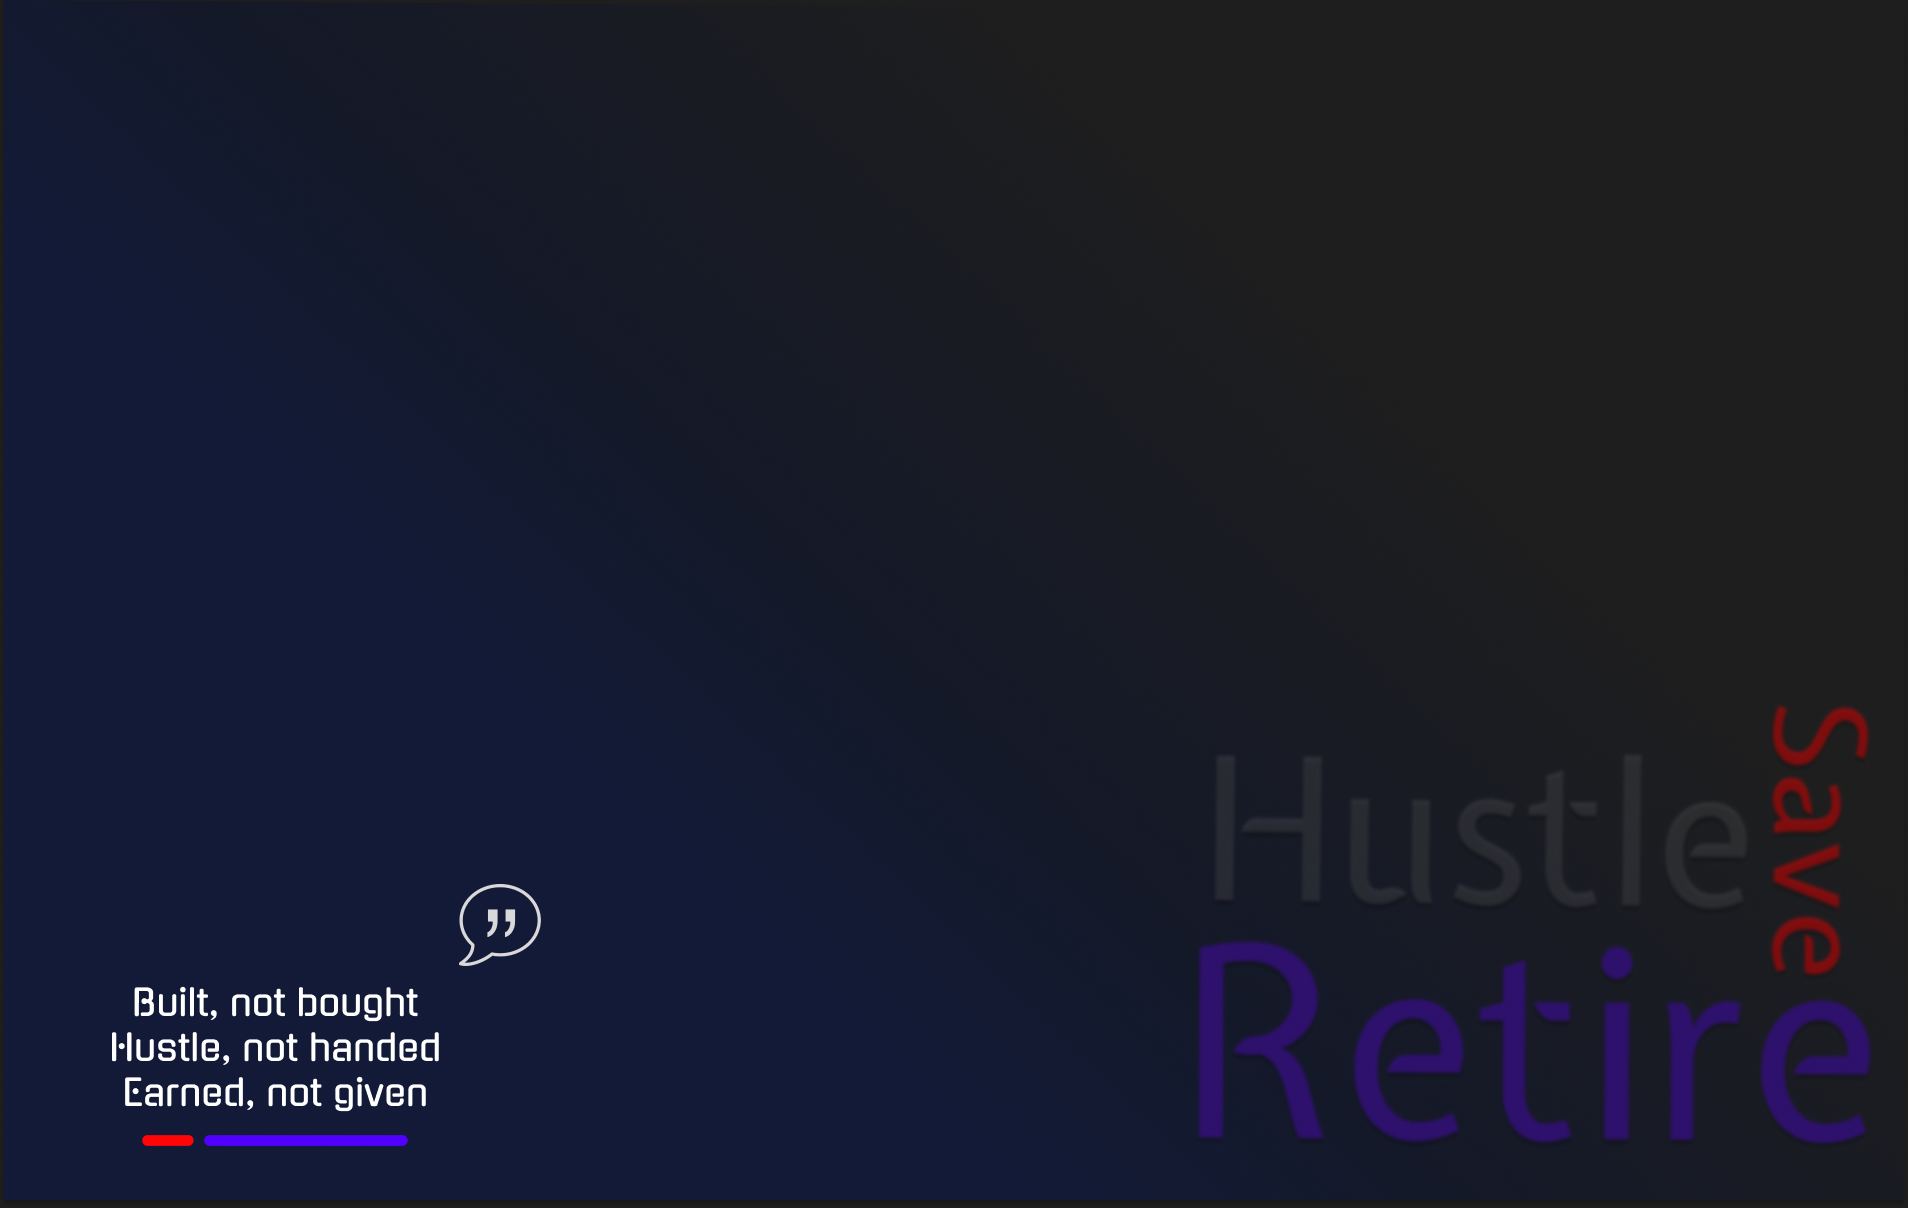
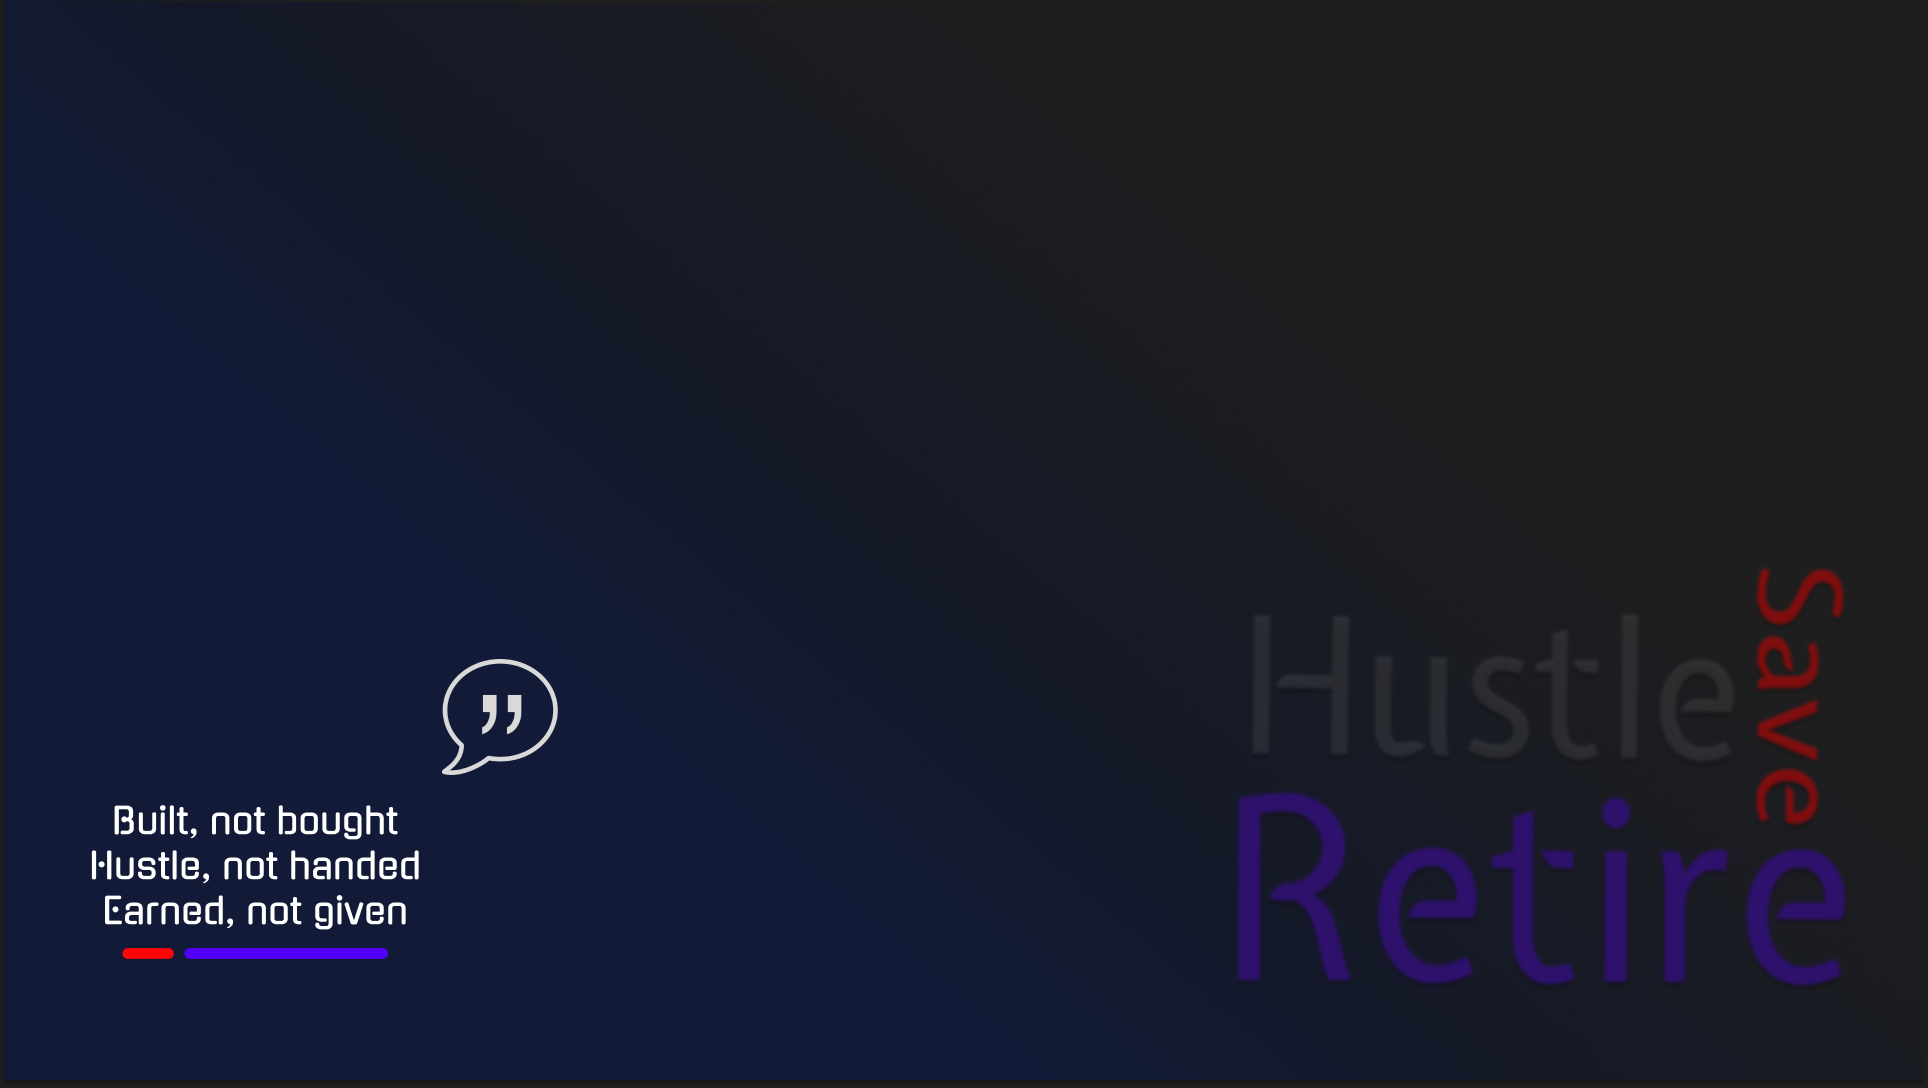
add background + edit profile

Changed region(s): [[0.6184, 0.5, 0.9895, 0.9688], [0.0309, 0.7188, 0.2474, 0.9688], [0.2165, 0.5938, 0.3092, 0.8125]]

diff --git a/src/components/HeaderAfterSignIn.js b/src/components/HeaderAfterSignIn.js
@@ -96,7 +96,7 @@ export default function HeaderAfterSignIn() {
                                                             fill="#D9D9D9"
                                                         />
                                                     </svg>{" "}
-                                                    Calculator
+                                                    Suggestion
                                                 </p>
                                             )}
                                         </Menu.Item>
@@ -136,6 +136,11 @@ export default function HeaderAfterSignIn() {
                         <span className="text-white self-center text-xl xl:text-2xl font-bold whitespace-nowrap">
                             Full House
                         </span>
+                    </div>
+                    <div className="flex items-center lg:order-2">
+                        <p onClick={() => { navigate("/profile", { replace: false }) }} className="cursor-pointer text-white focus:ring-4 font-medium rounded-lg text-md lg:text-xl px-4 lg:px-5 py-2 lg:py-2.5 mr-2 hover:bg-gray-700 focus:outline-none focus:ring-gray-800">PROFILE</p>
+                        <p onClick={() => { navigate("/signin", { replace: false }) }} className="cursor-pointer text-white focus:ring-4 font-medium rounded-lg text-md lg:text-xl px-4 lg:px-5 py-2 lg:py-2.5 mr-2 hover:bg-gray-700 focus:outline-none focus:ring-gray-800">SUGGESTION</p>
+                        <p onClick={() => { dispatch(signOutAction()) }} className="cursor-pointer focus:ring-4 font-medium rounded-lg text-md lg:text-xl px-4 lg:px-5 py-2 lg:py-2.5 mr-2 hover:bg-gray-700 focus:outline-none focus:ring-gray-800" style={{ color: "#FA0F0F" }}>SIGN OUT</p>
                     </div>
                 </div>
             </nav>

diff --git a/src/pages/ProfilePage/ProfilePage.js b/src/pages/ProfilePage/ProfilePage.js
@@ -2,20 +2,20 @@ import React from "react";
 import avatar from "../../assets/images/avatar.jpg";
 import UpdatePopUp from "../../components/UpdatePopUp";
 import HeaderAfterSignIn from "../../components/HeaderAfterSignIn";
-
-
+import background from '../../assets/images/background.png'
 
 export default function ProfilePage() {
-
   return (
-    <div
-      className="overflow-hidden "
-      style={{
-        background:
-          "linear-gradient(238.87deg, #1E1E1E 11.19%, #141929 48.52%, #121A37 67.18%)",
-        fontFamily: "'Gugi', cursive",
-      }}
-    >
+
+    <div className="overflow-x-hidden overflow-y-hidden" style={{
+      backgroundImage: `url(${background})`,
+      backgroundPosition: 'center',
+      backgroundSize: 'cover',
+      backgroundRepeat: 'no-repeat',
+      backgroundosition: "right",
+      fontFamily: "'Gugi', cursive",
+      // background: "linear-gradient(238.87deg, #1E1E1E 11.19%, #141929 48.52%, #121A37 67.18%)",
+    }}>
       <HeaderAfterSignIn />
       <div className="mt-20 md:mt-0 md:w-screen md:h-screen text-white flex justify-center items-center">
         <div className="grid grid-rows-5 grid-flow-row lg:grid-flow-col gap-4">

diff --git a/src/pages/SignInPage/SignInPage.js b/src/pages/SignInPage/SignInPage.js
@@ -3,6 +3,7 @@ import { useDispatch, useSelector } from 'react-redux'
 import HeaderBeforeSignIn from '../../components/HeaderBeforeSignIn'
 import { useFormik } from 'formik'
 import { signInAction } from '../../redux/actions/UserAction'
+import background from '../../assets/images/background.png'
 
 export default function SignInPage() {
   const { navigate } = useSelector((state) => state.NavigationReducer);
@@ -20,13 +21,14 @@ export default function SignInPage() {
   })
 
   return (
-    <div
-      className="overflow-hidden "
-      style={{
-        background:
-          "linear-gradient(238.87deg, #1E1E1E 11.19%, #141929 48.52%, #121A37 67.18%)",
-      }}
-    >
+    <div className="overflow-x-hidden overflow-y-hidden" style={{
+      backgroundImage: `url(${background})`,
+      backgroundPosition: 'center',
+      backgroundSize: 'cover',
+      backgroundRepeat: 'no-repeat',
+      backgroundosition: "right"
+      // background: "linear-gradient(238.87deg, #1E1E1E 11.19%, #141929 48.52%, #121A37 67.18%)",
+    }}>
       <HeaderBeforeSignIn />
       <div className="w-screen h-screen text-white flex justify-center items-center">
         <div

diff --git a/src/pages/SignUpPage/ConfirmSignUp.js b/src/pages/SignUpPage/ConfirmSignUp.js
@@ -3,6 +3,7 @@ import React from 'react'
 import { useDispatch } from 'react-redux';
 import HeaderBeforeSignIn from '../../components/HeaderBeforeSignIn'
 import { verifyAction } from '../../redux/actions/UserAction';
+import background from '../../assets/images/background.png'
 
 export default function ConfirmSignUp() {
 
@@ -19,13 +20,14 @@ export default function ConfirmSignUp() {
   })
 
   return (
-    <div
-      className='overflow-hidden '
-      style={{
-        background:
-          'linear-gradient(238.87deg, #1E1E1E 11.19%, #141929 48.52%, #121A37 67.18%)',
-      }}
-    >
+    <div className="overflow-x-hidden overflow-y-hidden" style={{
+      backgroundImage: `url(${background})`,
+      backgroundPosition: 'center',
+      backgroundSize: 'cover',
+      backgroundRepeat: 'no-repeat',
+      backgroundosition: "right"
+      // background: "linear-gradient(238.87deg, #1E1E1E 11.19%, #141929 48.52%, #121A37 67.18%)",
+    }}>
       <HeaderBeforeSignIn />
       <div className='w-screen h-screen text-white flex justify-center items-center'>
         <div className='rounded-3xl p-6' style={{ background: 'rgba(255, 255, 255, 0.04)' }}>

diff --git a/src/pages/ResetPasswordPage/ResetPasswordPage.js b/src/pages/ResetPasswordPage/ResetPasswordPage.js
@@ -4,6 +4,7 @@ import { useDispatch } from "react-redux";
 import HeaderBeforeSignIn from "../../components/HeaderBeforeSignIn";
 import * as Yup from 'yup';
 import { resetPasswordAction, sendVerificationCodeAction } from "../../redux/actions/UserAction";
+import background from '../../assets/images/background.png'
 
 export default function ResetPasswordPage() {
 
@@ -34,13 +35,14 @@ export default function ResetPasswordPage() {
   })
 
   return (
-    <div
-      className="overflow-hidden "
-      style={{
-        background:
-          "linear-gradient(238.87deg, #1E1E1E 11.19%, #141929 48.52%, #121A37 67.18%)",
-      }}
-    >
+    <div className="overflow-x-hidden overflow-y-hidden" style={{
+      backgroundImage: `url(${background})`,
+      backgroundPosition: 'center',
+      backgroundSize: 'cover',
+      backgroundRepeat: 'no-repeat',
+      backgroundosition: "right"
+      // background: "linear-gradient(238.87deg, #1E1E1E 11.19%, #141929 48.52%, #121A37 67.18%)",
+    }}>
       <HeaderBeforeSignIn />
       <div className="w-screen h-screen text-white flex justify-center items-center">
         <div

diff --git a/src/pages/Feedback/Feedback.js b/src/pages/Feedback/Feedback.js
@@ -3,6 +3,7 @@ import { useDispatch } from 'react-redux'
 import HeaderBeforeSignIn from '../../components/HeaderBeforeSignIn'
 import { useFormik } from 'formik'
 import { sendFeedback } from '../../redux/actions/FeedbackActions';
+import background from '../../assets/images/background.png'
 
 export default function Feedback() {
   const dispatch = useDispatch();
@@ -17,13 +18,14 @@ export default function Feedback() {
     }
   })
   return (
-    <div
-      className="overflow-hidden "
-      style={{
-        background:
-          "linear-gradient(238.87deg, #1E1E1E 11.19%, #141929 48.52%, #121A37 67.18%)",
-      }}
-    >
+    <div className="overflow-x-hidden overflow-y-hidden" style={{
+      backgroundImage: `url(${background})`,
+      backgroundPosition: 'center',
+      backgroundSize: 'cover',
+      backgroundRepeat: 'no-repeat',
+      backgroundosition: "right"
+      // background: "linear-gradient(238.87deg, #1E1E1E 11.19%, #141929 48.52%, #121A37 67.18%)",
+    }}>
       <HeaderBeforeSignIn />
       <div className="w-screen h-screen text-white flex justify-center items-center">
         <div

diff --git a/src/pages/SignUpPage/SignUpPage.js b/src/pages/SignUpPage/SignUpPage.js
@@ -4,6 +4,7 @@ import { useDispatch } from 'react-redux';
 import HeaderBeforeSignIn from '../../components/HeaderBeforeSignIn'
 import * as Yup from 'yup';
 import { signUpAction } from '../../redux/actions/UserAction';
+import background from '../../assets/images/background.png'
 
 export default function SignUpPage() {
 
@@ -40,13 +41,14 @@ export default function SignUpPage() {
   })
 
   return (
-    <div
-      className='overflow-hidden '
-      style={{
-        background:
-          'linear-gradient(238.87deg, #1E1E1E 11.19%, #141929 48.52%, #121A37 67.18%)',
-      }}
-    >
+    <div className="overflow-x-hidden overflow-y-hidden" style={{
+      backgroundImage: `url(${background})`,
+      backgroundPosition: 'center',
+      backgroundSize: 'cover',
+      backgroundRepeat: 'no-repeat',
+      backgroundosition: "right"
+      // background: "linear-gradient(238.87deg, #1E1E1E 11.19%, #141929 48.52%, #121A37 67.18%)",
+    }}>
       <HeaderBeforeSignIn />
       <div className='w-screen h-screen text-white flex justify-center items-center'>
         <div

diff --git a/src/components/UpdatePopUp.js b/src/components/UpdatePopUp.js
@@ -29,7 +29,8 @@ export default function UpdatePopUp() {
   return (
     <>
       <button
-        className="bg-pink-500 text-white active:bg-pink-600 font-bold uppercase text-sm px-6 py-3 rounded shadow hover:shadow-lg outline-none focus:outline-none mr-1 mb-1 ease-linear transition-all duration-150"
+        style={{backgroundColor: "#5100FD"}}
+        className="mt-4 text-white active:bg-pink-600 font-bold uppercase text-sm px-6 py-3 rounded shadow hover:shadow-lg outline-none focus:outline-none mr-1 mb-1 ease-linear transition-all duration-150"
         type="button"
         onClick={() => setShowModal(true)}
       >
